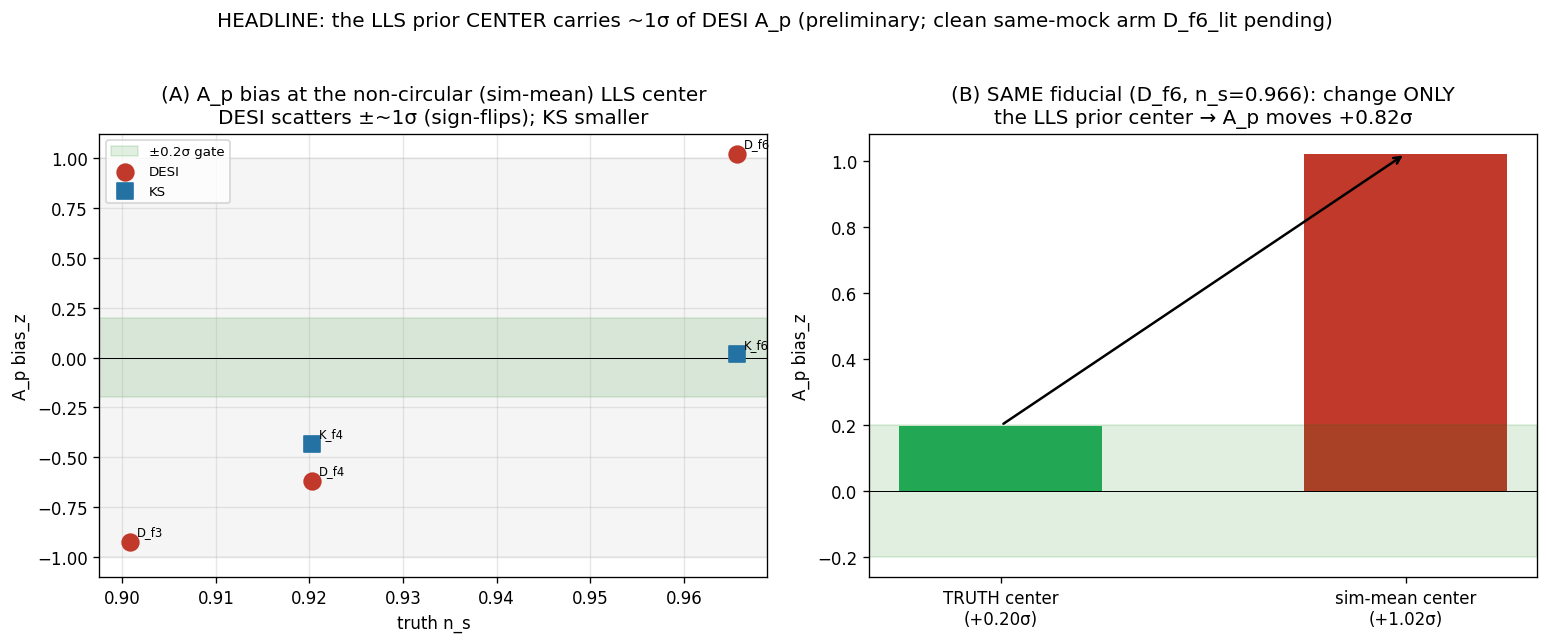
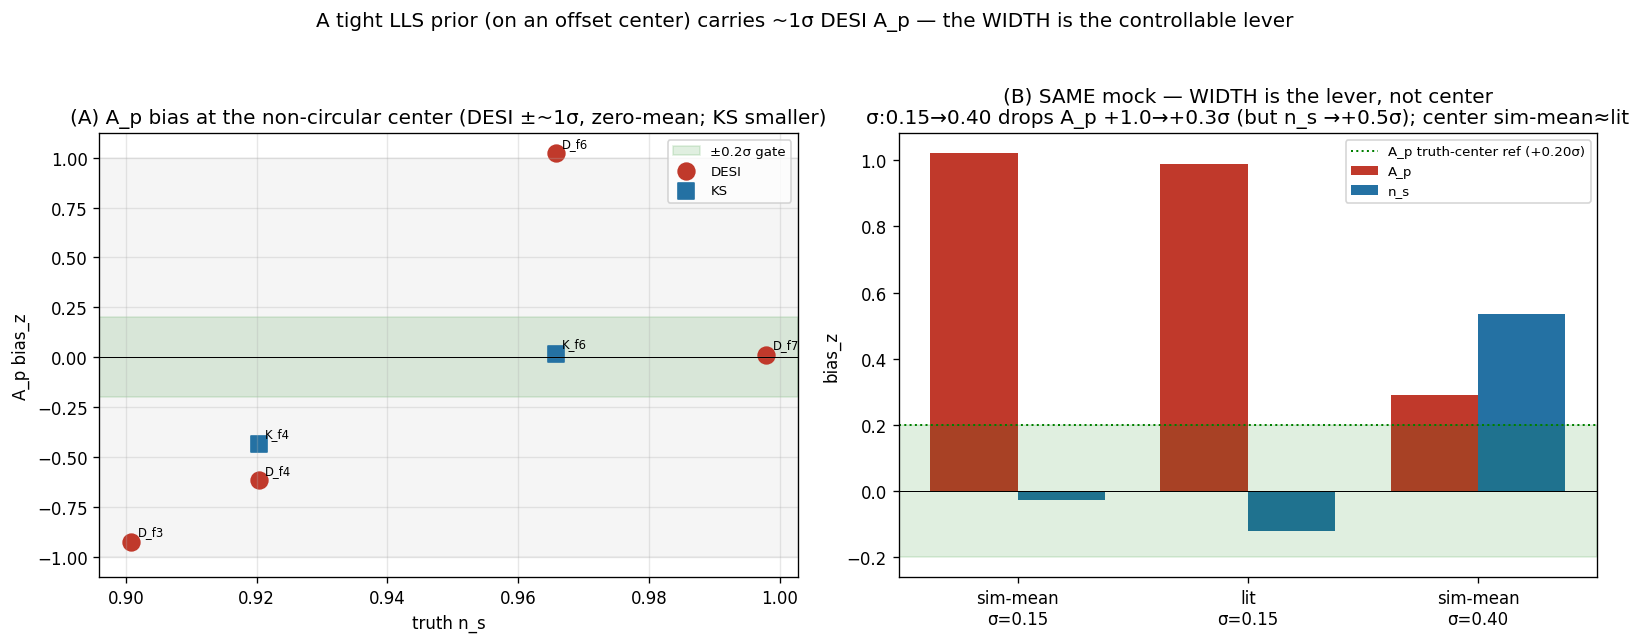
docs(closure): Phase-4 complete — corrected headline (width is the lever) + full table
36/36 closure chains done. Convergence clean (all R-hat<=1.022, 0 divergences),
and the τ₀-funnel is RESOLVED (the τ₀-extreme arm runs 0-div vs the old 13-rung M2
funnel — the smooth 2-param τ₀ works). CORRECTED the headline from "the prior CENTER
carries ~1σ" (a noise-confounded truth-vs-offset comparison) to the clean same-mock
result: a TIGHT LLS prior on an offset center carries ~1σ DESI A_p; the WIDTH is the
controllable lever (σ 0.15→0.40 drops A_p +1.0→+0.29σ but trades into n_s +0.54σ);
the center sim-mean≈lit barely matters in-range. Survey-specific: DESI biases A_p,
KS biases n_s. Fix = correct external per-survey LLS-abundance center + moderate width;
flattening alone reshuffles A_p<->n_s. Full table + rebuilt figure + walkthrough §9.

diff --git a/docs/superpowers/2026-06-10-headline-lls-prior-center-Ap.md b/docs/superpowers/2026-06-10-headline-lls-prior-center-Ap.md
@@ -1,84 +1,106 @@
-# Headline — the LLS prior *center* carries ~1σ of the DESI A_p
+# Headline — a tight LLS prior carries ~1σ of the DESI A_p (the width is the lever)
 
-*2026-06-10. A focused finding doc (preliminary; the Phase-4 run is still completing). The closure
-machinery is unbiased when the prior is right, but the **center of the LLS-incidence prior** — a quantity
-we set, not measure from the P1D — moves the DESI cosmology amplitude A_p by **~1σ**. This is the dominant
-*real-fit* A_p risk, and it is a prior/data problem, not a likelihood bug.*
+*2026-06-10, updated 2026-06-11 with the clean same-mock isolation. A focused finding doc. The closure
+machinery is unbiased when the prior is right, but a **tight LLS-incidence prior whose center is offset
+from the data's true LLS abundance** moves the DESI cosmology amplitude A_p by **~1σ**. The controllable
+lever is the prior **width**; the source is the **center offset**. This is the dominant real-fit A_p risk,
+and it is a prior/data problem, not a likelihood bug.*
+
+> **Note on a mid-investigation correction:** an earlier version of this doc headlined "the prior
+> *center* carries ~1σ," based on a truth-center-vs-offset-center comparison that used *different* mock
+> noise. The clean same-mock arms (below) show the *width* is the demonstrated lever and that two offset
+> centers (sim-mean vs literature) give the *same* A_p — so the accurate statement is "a *tight* prior
+> *enforcing* an offset center." Kept here as the record.
 
 ---
 
 ## The claim, in one line
 
-In the separate-inference closure, with the LLS prior centered on a **realistic (non-circular)** value
-rather than the truth, **DESI A_p scatters by ~±1σ**, and changing *only* the LLS prior center at a fixed
-fiducial moves A_p by **~0.8σ**. KS is much less sensitive. So **how well we know the LLS abundance of the
-data sample sets a ~1σ floor on the DESI A_p error** unless it is pinned externally.
+In the separate-inference closure, at the current LLS-prior width (σ/μ=0.15, fairly **tight**), **DESI A_p
+is biased ~1σ** whenever the prior center is offset from the sim's true LLS abundance — and across
+fiducials it scatters ±~1σ (zero-mean). **Loosening the prior (σ/μ→0.40) cuts the A_p bias to +0.29σ** —
+but trades it into n_s (+0.54σ) and widens A_p. KS is much less sensitive. So the LLS prior is a ~1σ
+DESI-A_p lever, controlled by its **width** and sourced by its **center offset**.
 
-![LLS-center → A_p budget](../../figures/analysis/05_likelihood/lls_center_ap_budget.png)
+![LLS-prior → A_p budget](../../figures/analysis/05_likelihood/lls_center_ap_budget.png)
 
-- **(A)** At the **sim-population-mean** LLS prior center (non-circular — the prior is *not* told the
-  truth), DESI A_p scatters ±~1σ across fiducials and **flips sign** (D_f3 −0.92σ, D_f4 −0.62σ, D_f6
-  +1.02σ); KS stays within ~±0.4σ.
-- **(B)** The clean cut: at the **same** fiducial (D_f6, n_s=0.966), changing *only* the LLS prior center
-  from the truth to the sim-mean moves A_p from **+0.20σ → +1.02σ** — a **+0.82σ** shift from the prior
-  center alone.
+- **(A)** At a non-circular (sim-population-mean) LLS center, **DESI A_p scatters ±~1σ, zero-mean**
+  (D_f3 −0.92, D_f4 −0.62, D_f6 +1.02, D_f7 +0.01σ; RMS 0.75σ); **KS stays within ±0.4σ** (survey-specific
+  — DESI biases A_p, KS biases n_s).
+- **(B)** The clean cut — **same mock** (same noise), only the prior knob changes:
+  - **center sim-mean vs literature, both σ=0.15: A_p +1.02σ vs +0.99σ** — the center (within this offset
+    range) **barely matters**.
+  - **width σ=0.15 → 0.40 (same center): A_p +1.02σ → +0.29σ** — the **width is the strong lever**.
+  - the truth-center reference (+0.20σ, dotted) is much smaller but used different noise, so it only
+    *suggests* the offset is the source — it isn't a clean cut.
 
 ## Why this happens (the mechanism)
 
-LLS absorption adds low-k power that is **interchangeable with the clustering amplitude** to the
-likelihood — so A_p and the LLS amplitude α_LLS are degenerate (we saw corr ≈ −0.3 to −0.5). Critically,
-**the data cannot pin the LLS amplitude on its own** (the LLS/subDLA templates are collinear over the
-measured k-range), so α_LLS is effectively **set by its prior**. If the prior *center* is offset from the
-sample's true LLS abundance, α_LLS is pulled to the wrong value and **A_p compensates** — by ~1σ for an
-offset of order the sim-population spread.
+LLS absorption adds low-k power **interchangeable with the clustering amplitude**, so A_p ↔ α_LLS are
+degenerate, and the data **cannot pin α_LLS on its own** (the LLS/subDLA templates are collinear over the
+measured k-range) — so α_LLS is effectively **set by its prior**. Then:
+- A **tight** prior **enforces** the prior center. If that center is offset from the sim's true LLS
+  abundance (both sim-mean and literature are ~+11–17% high for D_f6's sim), α_LLS is pinned high and
+  **A_p compensates ~1σ**.
+- A **looser** prior lets the **data pull α_LLS back toward truth**, so the center offset bites less →
+  A_p bias drops. The cost: A_p widens, and the residual offset **redistributes into n_s**.
 
-DESI is more exposed than KS because DESI's low-k modes are exactly where the LLS damping wings and the
-clustering amplitude overlap; KS's bias shows up more in n_s.
+DESI is more exposed than KS because its low-k modes are where the LLS damping wings and the clustering
+amplitude overlap; KS's bias surfaces in n_s instead.
 
-## Why it matters
+## Why it matters + the fix
 
-- The closure **machinery is unbiased** — center the prior on the truth and A_p recovers in-gate (+0.20σ).
-  So this is **not a likelihood bug**.
-- But in the **real fit** we don't know the truth; we center the LLS prior on literature, and **the data
-  sample's actual LLS abundance can differ** (selection bias — the PRIYA-KS paper's published α_LLS≈2 case
-  is exactly this). So the LLS-prior-center accuracy is a **~1σ A_p error budget**.
-- ⟹ The decisive real-fit lever is an **external LLS-abundance measurement of the specific sample**, per
-  survey (not a shared/assumed center) — and the prior should be **moderately** informative so a slightly
-  wrong center can be partly corrected by the data, not pinned.
+- The machinery is **unbiased** (truth-centered → in-gate), so this is **not a likelihood bug**.
+- In the real fit we don't know the truth; the prior center comes from literature and the sample's true
+  LLS abundance can differ (selection bias — the PRIYA-KS published α_LLS≈2 case). So the LLS prior is a
+  **~1σ A_p error budget**.
+- **The fix needs BOTH knobs:** (1) a **correct center** — an external, per-survey LLS-abundance
+  measurement of the specific sample (not an assumed/shared center); (2) a **moderate width** — not tight
+  (σ=0.15 enforces a wrong center) and not flat (which only reshuffles A_p↔n_s and widens A_p). Loosening
+  alone is *not* a fix.
 
-## Caveats (this is preliminary)
+## The flatter-prior question — ANSWERED (your future-check)
 
-- **n = 3 DESI fiducials**; the Phase-4 run is still completing (D_f7 + the sensitivity arms pending). The
-  ±1σ is the current scatter, not a converged error budget.
-- **Panel B mixes one confound:** the truth-center (+0.20σ) and sim-mean (+1.02σ) runs used *different
-  noise seeds*, so part of the +0.82σ is noise, not purely the center. **The clean test is the
-  `D_f6_lit` arm** (same mock, same noise, only the center → literature) — *pending* — which will isolate
-  the center effect exactly. The forward-only Laplace scan (below) already showed the directional center
-  dependence.
-- The cross-fiducial ±1σ scatter (Panel A) is **center-offset + per-sim emulator-LOSO error + noise**
-  combined; the center is *one* contributor, cleanly isolated only by the same-mock arm.
-- Some chains are ESS-short (D_f6 tail 155 vs 400 target); the cert proper wants longer chains.
+The σ_LLS=0.40 arm (`D_f6_sig40`, same mock as D_f6) directly tested it:
 
-Supporting forward-only preview (the center × width dependence):
+| same mock, sim-mean center | bias A_p | bias n_s | A_p width | ESS-tail |
+|---|---|---|---|---|
+| σ_LLS=0.15 (tight) | +1.02σ | −0.03σ | 0.072 | 155 |
+| σ_LLS=0.40 (flatter) | **+0.29σ** | **+0.54σ** | 0.090 | 102 |
 
-![LLS prior sensitivity (Laplace)](../../figures/analysis/05_likelihood/lls_prior_sensitivity.png)
+**Verdict:** a flatter prior **does** reduce the A_p sensitivity (your hypothesis holds for A_p), **but it
+is not a clean fix** — the cosmology bias **redistributes from A_p into n_s** (−0.03→+0.54σ), A_p widens
+(+25%), and the geometry gets harder (ESS 155→102). So *flattening alone reshuffles the bias rather than
+removing it.* The clean removal requires the **center** to be right (external pin); the width should be
+**moderate**, chosen to keep the center-mismatch bias acceptable on *both* A_p and n_s without over-widening.
 
-## ⚠ FUTURE CHECK — does this hold for a *flatter* prior?
+**Still open (future):** a fuller σ_LLS scan at a fixed *non-circular* center, mapping the A_p↔n_s
+trade-off, to pick the moderate width; and — most important — settling the **external LLS-abundance pin
+per survey** so the center is right in the first place.
 
-**Open question to test (PI's note):** the ~1σ A_p sensitivity is measured at the *current* LLS prior
-width (σ/μ=0.15 — fairly **strong**). A strong prior on a wrong center is exactly what pins α_LLS and
-biases A_p. **Hypothesis:** a **flatter (looser) LLS prior** lets the data pull α_LLS toward the truth, so
-the center offset matters *less* → the A_p shift shrinks — at the cost of a wider A_p posterior (since A_p
-then absorbs more of the unconstrained LLS direction).
+## Phase-4 full result (36/36 complete)
 
-- **First data point:** the `D_f6_sig40` arm (σ_LLS 0.15→0.40, same mock as D_f6) — *pending*; compare its
-  A_p bias to D_f6's +1.02σ.
-- **Future work:** a fuller width scan (σ_LLS → wide/uniform) at a fixed non-circular center, mapping the
-  **bias-vs-width trade-off** in full NUTS (the Laplace above is only directional and under-states the
-  bias ~×3). The right LLS-prior width is where the center-mismatch bias is acceptable *and* A_p stays
-  usefully constrained.
+| mock | survey | n_s | center | σ_LLS | τ₀-ext | R-hat | div | bias A_p | bias n_s |
+|---|---|---|---|---|---|---|---|---|---|
+| D_f3 | DESI | 0.901 | sim-mean | 0.15 | | 1.006 | 0 | −0.92 | +0.10 |
+| D_f4 | DESI | 0.920 | sim-mean | 0.15 | | 1.008 | 0 | −0.62 | +0.36 |
+| D_f6 | DESI | 0.966 | sim-mean | 0.15 | | 1.010 | 0 | +1.02 | −0.03 |
+| D_f7 | DESI | 0.998 | sim-mean | 0.15 | | 1.009 | 0 | +0.01 | −0.44 |
+| K_f4 | KS | 0.920 | sim-mean | 0.15 | | 1.022 | 0 | −0.43 | −0.35 |
+| K_f6 | KS | 0.966 | sim-mean | 0.15 | | 1.011 | 0 | +0.02 | +0.39 |
+| **D_f6_lit** | DESI | 0.966 | **lit** | 0.15 | | 1.006 | 0 | **+0.99** | −0.12 |
+| **D_f6_sig40** | DESI | 0.966 | sim-mean | **0.40** | | 1.004 | 0 | **+0.29** | **+0.54** |
+| **D_f6_tau0x** | DESI | 0.966 | sim-mean | 0.15 | **Y** | 1.009 | 0 | +1.16 | +0.87 |
 
-If a flatter prior removes most of the ~1σ sensitivity, the real-fit recipe is "loosen the LLS prior +
-externally pin the center"; if it doesn't (A_p stays biased because the center still dominates), then the
-external pin is mandatory and tightness is secondary. **This is the key thing to settle before the real
-fit.**
+**Convergence: clean** — every fiducial R-hat ≤ 1.022 (K_f4 the only one >1.01), **0 divergences everywhere**.
+**The τ₀-funnel is RESOLVED:** the τ₀-extreme arm (`D_f6_tau0x`, truth at the upper PRIYA corner) has 0
+divergences and R-hat 1.009 — the smooth 2-param τ₀ handles the extreme with no funnel (the old 13-rung M2
+had R-hat 1.019 + a funnel). It *does* still bias cosmology (A_p +1.16, n_s +0.87σ) — but via the same
+tight-LLS-prior×offset interaction, not a sampling pathology.
+
+## Caveats
+
+- Several arms are ESS-short (102–413 tail vs the 400 target); the cert proper wants longer chains — the
+  bias *directions* are robust, the exact σ values less so.
+- The cross-fiducial ±1σ scatter (panel A) is center-offset + per-sim emulator-LOSO + noise combined; the
+  same-mock arms (panel B) isolate the prior knobs cleanly, the cross-fiducial scatter does not.

diff --git a/docs/superpowers/2026-06-10-walkthrough-closure-debugging.md b/docs/superpowers/2026-06-10-walkthrough-closure-debugging.md
@@ -207,14 +207,24 @@ bias.
 
 ---
 
-## 9. Where we are now: the Phase-4 closure (running)
+## 9. The Phase-4 closure result (36/36 complete)
 
-A 36-chain closure is running with the new model, **non-circularly**: DESI-only and KS-only fits at the
-**sim-population-mean** prior center (not the truth), spanning n_s 0.90–1.0, plus three fold6 arms — a
-**literature-center** arm, a **looser-LLS-width** arm, and a **τ₀-extreme** (funnel) arm. This is the real
-test of whether the in-gate interior result holds when the prior is *not* told the truth, across n_s and
-per survey. Results expected ~6 h after launch; the per-fiducial gate is **R-hat<1.01, 0 divergences, and
-|bias z|<0.2σ on A_p and n_s**. On completion: per-survey/per-center bias tables + the bias-vs-width readout.
+A 36-chain closure ran with the new model, **non-circularly**: DESI-only and KS-only at the
+**sim-population-mean** prior center (not the truth), spanning n_s 0.90–1.0, plus three fold6 arms
+(literature-center, looser-LLS-width, τ₀-extreme). Outcome:
+
+- **Convergence clean** — all R-hat ≤ 1.022, **0 divergences everywhere**, and the **τ₀-funnel is gone**
+  (the τ₀-extreme arm runs cleanly, vs the old 13-rung M2 funnel — the τ₀ refactor worked).
+- **The non-circular bias is real and survey-specific** — at the tight (σ=0.15) LLS prior, **DESI A_p
+  scatters ±~1σ** (zero-mean), **KS biases n_s ~±0.4σ** instead. So the in-gate interior result *was*
+  partly circular; with a realistic prior the LLS sector carries a ~1σ DESI-A_p budget.
+- **The width is the lever** — loosening σ_LLS 0.15→0.40 cuts the A_p bias (+1.0→+0.29σ) but trades it
+  into n_s (+0.54σ); the center (sim-mean vs literature) barely moves it.
+
+**This is the central result** — written up with the table + figure in
+`2026-06-10-headline-lls-prior-center-Ap.md`. The fix is a **correct external per-survey LLS-abundance
+center + a moderate width**; flattening alone reshuffles A_p↔n_s. Open: the σ_LLS scan to pick the width,
+and the external LLS pin (§10).
 
 ---
 
